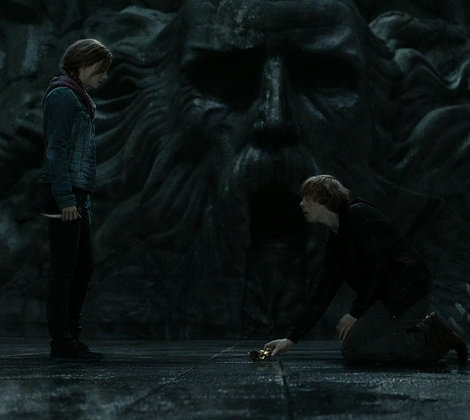
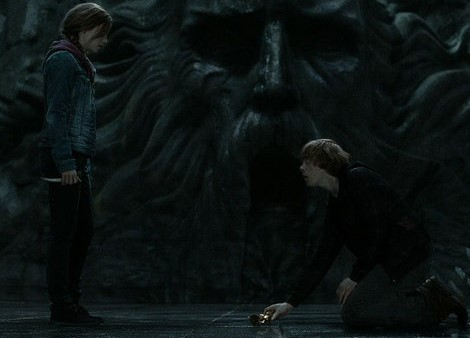
fixed image sizes and spacing

diff --git a/assets/css/style.css b/assets/css/style.css
@@ -19,7 +19,7 @@ body {
 	left: 0;
 	height: 100%;
 	width: 100%;
-	opacity: 0.5;
+	opacity: 0.3;
 }
 
 #wrapper {
@@ -91,7 +91,7 @@ body {
 
 #correct-img {
 	display: block;
-	margin: 30px auto 0;
+	margin: 10px auto 0;
 	max-width: 500px;
 	max-height: 500px;
 }

diff --git a/assets/javascript/app.js b/assets/javascript/app.js
@@ -14,7 +14,7 @@ var trivia = {
 		answer: "An Eagle",
 		choices: ["A Badger","An Eagle","A Lion","A Snake"],
 		asked: false,
-		image: "ravenclaw.jpg"
+		image: "ravenclaw.png"
 	},
 	three: {
 		question: "Who destroyed the last remaining Horcrux?",
